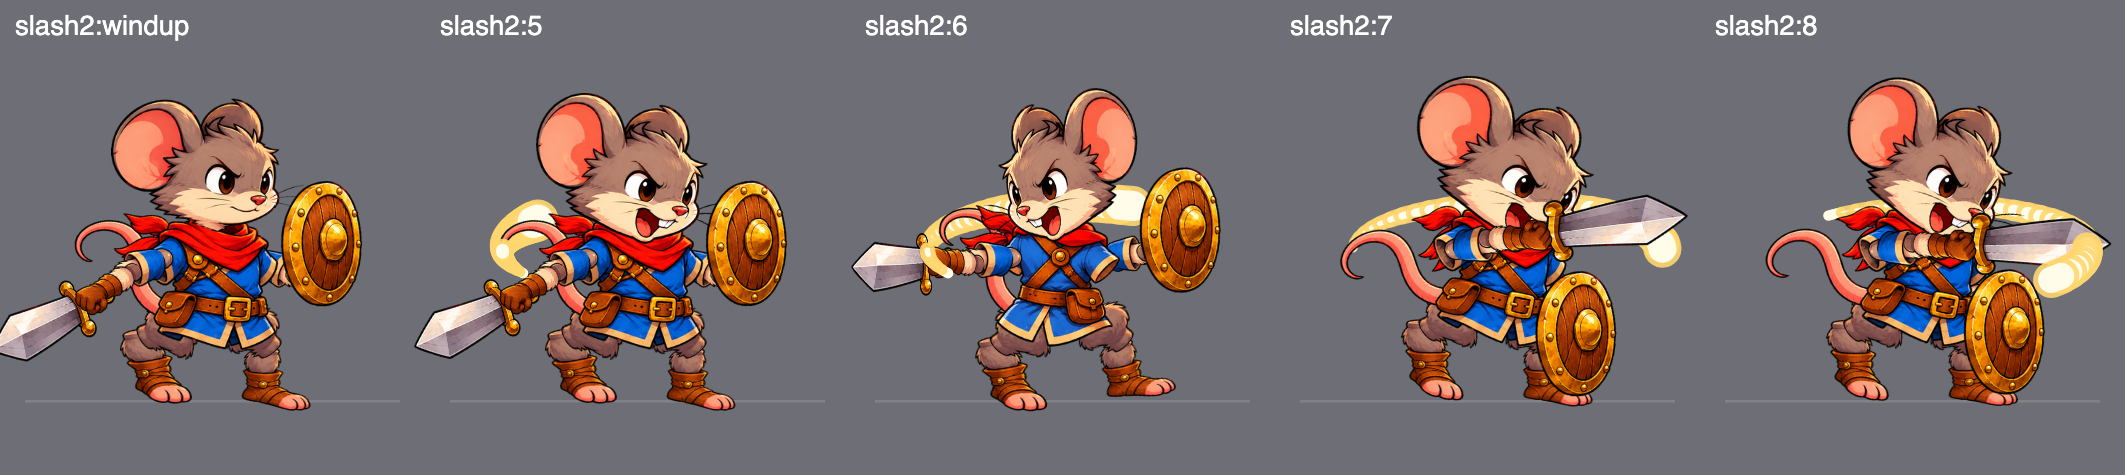
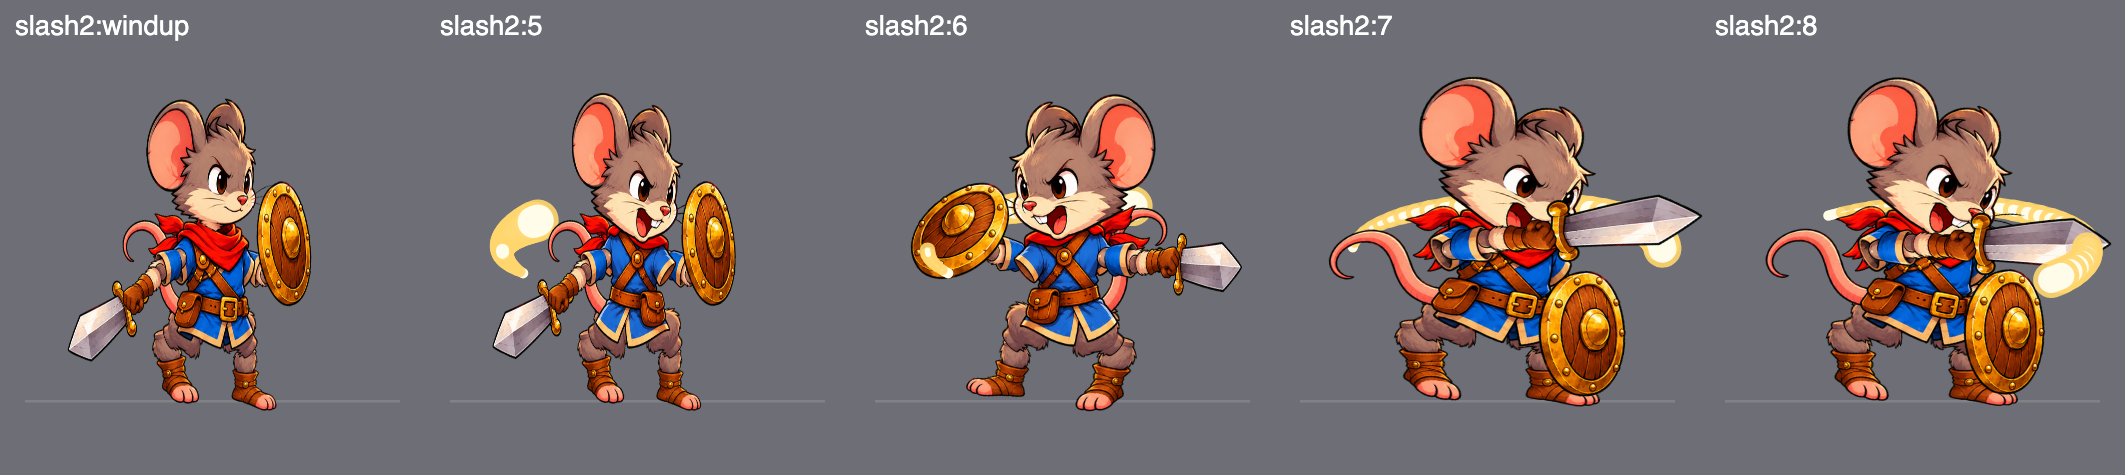
T008 round 2: spin reads as a turn (body narrows, then mirrors for 2 frames); build label v2

diff --git a/src/data/rigs/mouse-fighter-poses.js b/src/data/rigs/mouse-fighter-poses.js
@@ -12,7 +12,7 @@ export default {
     bodyLean: 0.3,      // share of the move's standee lean (move.pose.rot) the rig keeps; joints do the rest
     swapBack: 0.5,      // fraction of a move's recovery that keeps the strike's swaps (shout face) before the normal drawings return
     castHold: 1,        // s the C test pose (`cast`) plays before he drops back to normal
-    throughSwap: [0.25, 0.75],   // a `through` pose's swaps show while the swing is this share of the way to the strike
+    throughSwap: [0, 0.75],      // a `through` pose's swaps show while the swing is this share of the way to the strike
   },
   stance: {
     torso: 4, head: -4,
@@ -96,12 +96,12 @@ export default {
       strike: { swap: { head: 'head-shout' }, torso: 8, head: 4, dx: 2, 'arm-front-upper': -78, 'arm-front-lower': 10, sword: 90, 'arm-back-upper': -10, 'arm-back-lower': -30,
         'leg-back-upper': -52, 'leg-back-lower': 38, 'leg-front-upper': 50, 'leg-front-lower': -54, 'scarf-tail': -20, tail: -15 },
     },
-    slash2: {   // spin slash: he turns his back mid-swing and the blade comes round flat at shoulder height.
-      // windup: blade drawn back low across the body. through (one drawing, mid-spin): back to us, arm
-      // and blade flat out behind. strike: front again, blade flat out in front.
-      windup: { torso: 2, head: -2, dy: 3, 'arm-front-upper': 70, 'arm-front-lower': -20, sword: 104, 'sword.sx': 0.75,
+    slash2: {   // spin slash: he twists away (body narrowed = turning), faces the other way for the first two
+      // active frames (whole body mirrored, back torso, blade trailing on the enemy's side), then comes round
+      // to the front with the blade flat out at shoulder height. 'sx' = whole-body width (-1 mirrored).
+      windup: { sx: 0.65, torso: 2, head: -2, dy: 3, 'arm-front-upper': 70, 'arm-front-lower': -20, sword: 104, 'sword.sx': 0.75,
         'arm-back-upper': -70, 'leg-back-upper': -46, 'leg-back-lower': 44, 'leg-front-upper': 64, 'leg-front-lower': -70, tail: 15, 'scarf-tail': 15 },
-      through: { swap: { torso: 'torso-back', head: 'head-shout' }, torso: 0, head: -4, 'head.sx': -1, dy: 2,
+      through: { swap: { torso: 'torso-back', head: 'head-shout' }, sx: -1, torso: 0, head: -4, dy: 2,
         'arm-front-upper': 90, 'arm-front-lower': 0, sword: 90, 'sword.sx': 0.55, 'arm-front-lower.sy': 0.8, 'arm-back-upper': -100, 'arm-back-lower': -20, tail: 30, 'scarf-tail': 30 },
       strike: { swap: { head: 'head-shout' }, torso: 10, head: 2, dx: 2, 'arm-front-upper': -102, 'arm-front-lower': 0, sword: 92,
         'arm-back-upper': -15, 'arm-back-lower': -40, 'leg-back-upper': -52, 'leg-back-lower': 38, 'leg-front-upper': 50, 'leg-front-lower': -54,

diff --git a/src/render/rig-pose.js b/src/render/rig-pose.js
@@ -1,6 +1,6 @@
 // Rig poses: picks the pose for a fighter's state/move, evaluates waves and move phases,
 // and eases from the last drawn pose into a new one. Pure (no DOM), so tests can run it.
-// Channels: '<part>' angle, 'dx'/'dy' root offset, and per part '<part>.sx' / '<part>.sy'
+// Channels: '<part>' angle, 'dx'/'dy' root offset, 'sx' whole-body width (-1 = mirrored, e.g. mid-spin), and per part '<part>.sx' / '<part>.sy'
 // (stretch across/along the bone, 1 = as drawn, negative flips) and '<part>.order' (draw order).
 // Part swaps: a pose's `swap: { <part>: '<swap name>' }` picks one of the part's `swaps` images.
 // Swaps don't blend: they switch the moment the pose (or move phase) that names them starts.
@@ -14,7 +14,7 @@ const easeOutBack = (t, s) => 1 + (s + 1) * (t - 1) ** 3 + s * (t - 1) ** 2;
 
 // Every channel a pose may use, with its value when a pose leaves it out.
 export function channelsOf(rig) {
-  const out = { dx: 0, dy: 0 };
+  const out = { dx: 0, dy: 0, sx: 1 };   // sx: whole-body width (1 = as drawn, -1 = mirrored; through 0 reads as a turn)
   for (const [name, p] of Object.entries(rig.parts)) {
     out[name] = 0; out[`${name}.sx`] = 1; out[`${name}.sy`] = 1; out[`${name}.order`] = p.order;
   }

diff --git a/src/render/rig.js b/src/render/rig.js
@@ -32,7 +32,7 @@ export function layoutRig(rig, joints, swap = {}) {
     if (frames[name]) return frames[name];
     const p = rig.parts[name];
     let m;
-    if (!p.parent) m = mul(mul(tr(joints.dx ?? 0, (joints.dy ?? 0) - rig.rootY), sc(rig.scale)), rot(joints[name] ?? 0));
+    if (!p.parent) m = mul(mul(tr(joints.dx ?? 0, (joints.dy ?? 0) - rig.rootY), sc(rig.scale * (joints.sx ?? 1), rig.scale)), rot(joints[name] ?? 0));
     else {
       const q = rig.parts[p.parent];
       const [ax, ay] = apply(shape(p.parent, q, joints), p.attach[0] - q.pivot[0], p.attach[1] - q.pivot[1]);

diff --git a/src/config.js b/src/config.js
@@ -3,4 +3,4 @@ export const VIEW = { w: 960, h: 540 };   // internal resolution; CSS scales to 
 export const FPS = 60;                    // sim runs at a fixed 60 steps/sec; all timings are in frames
 export const START_STAGE = 'harbor-market';
 export const START_HERO = 'mouse-fighter';
-export const BUILD = 't008 spin slash';   // shown small under the KO counter so testers know which version is running
+export const BUILD = 't008 spin slash v2';   // shown small under the KO counter so testers know which version is running

diff --git a/docs/MODULES.md b/docs/MODULES.md
@@ -37,7 +37,7 @@ One line per file: what it does and what it exports. **Read this instead of the 
 | `src/render/renderer.js` | Draw order: backdrop, stage, shadows, far half of wrap swooshes, fighters by depth (rig if `art.rig` and `opts.rig`, else standee), effects, HUD, debug | `createRenderer` |
 | `src/render/standee.js` | Fighter drawn as a standee: lean/squash/hop per state (block = braced forward lean, jolts back in blockstun; `BLOCK_LEAN` is undone by the rig) and move phase, flips, flashes, tints | `drawStandee drawShadow poseOf` |
 | `src/render/rig.js` | Fighter drawn as a cutout rig: part hierarchy -> buffer, then placed like a standee (lean, flip, flash, tints). Draws swap images (`layoutRig(rig, joints, swap)` returns each part's `img`); optional held pose (`cast`) | `drawRig layoutRig` |
-| `src/render/rig-pose.js` | Rig pose per state/move phase (waves, windup/through/strike, easing, overshoot) and blending from the last drawn pose; part swaps per pose/phase (switch at once, strike swaps last `timing.swapBack` of recovery); optional pose override. A `through` pose's swaps show only mid-swing (`timing.throughSwap`; slash2's one back-view drawing). Channels: joint angles, dx/dy, per-part `.sx/.sy` stretch and `.order`. Pure | `targetPose rigJoints channelsOf jointsOfRig` |
+| `src/render/rig-pose.js` | Rig pose per state/move phase (waves, windup/through/strike, easing, overshoot) and blending from the last drawn pose; part swaps per pose/phase (switch at once, strike swaps last `timing.swapBack` of recovery); optional pose override. A `through` pose's swaps show only mid-swing (`timing.throughSwap`; slash2's one back-view drawing). Channels: joint angles, dx/dy, `sx` whole-body width (-1 mirrored; slash2's mid-spin), per-part `.sx/.sy` stretch and `.order`. Pure | `targetPose rigJoints channelsOf jointsOfRig` |
 | `src/render/effects.js` | Slash swooshes (optionally `flat` for level sweeps; `wrap` goes round the body, far side drawn behind via `drawBack`), sparks, rings, damage numbers, dust; block clang (bright sparks toward the attacker, shield-side flash, double ring, then a star glint on the shield rim) (from events) | `createEffects drawSlash` |
 | `src/render/view-pose.js` | View-only test pose on the hero (C = `cast`): plays once for `timing.castHold` s, only from idle, dropped on leaving idle. Pure | `stepViewPose` |
 | `src/render/juice.js` | Screen shake + hit-stop counters (from events; `block` uses the blocker's `block.hitstop/shake`) | `createJuice` |

diff --git a/docs/STATUS.md b/docs/STATUS.md
@@ -50,6 +50,8 @@
 2026-10-15 code: T008 on branch `t008-spin-slash`: slash2 is a spin slash (windup low back; one back-view torso frame mid-active with the head looking back along the flat blade; flat cut in front), wrap-around swoosh with its far half behind him. Sim/timing/hitbox unchanged. C now plays the cast pose once (1 s, idle only).
 2026-10-15 code: 8/8 tests (new tests/view-pose.test.mjs, rig test slash2 checks). Screens in docs/screens/T008/. Human check open: does slash2 read as a flat spinning cut?
 2026-10-15 code: user request (outside T008, for the lead): small "build: t008 spin slash" label under the KO counter (`BUILD` in src/config.js, drawn by hud.js) so testers can tell versions apart. Lead: keep, change per task, or drop.
+2026-10-15 code: T008 round 2 (user: "i dont see his back at all"): the torso-back drawing barely differs from the front at game size, and it showed for 1 frame. Now the windup narrows the body (twisting away) and the first 2 active frames mirror the whole body (new render-only rig channel `sx`, default 1) with the back torso; a hit-stop holds that frame. Build label "t008 spin slash v2".
+2026-10-15 code: art that would sell the spin: a true back view (back of head with ears, tunic/scarf from behind) for A005. Variant sheet docs/screens/T008/4-*.png (top row picked).
 2026-10-15 lead: merged T007 (shield block; sim change limited to fighters with a block config; user approved the readable pose, polish parked).
 2026-10-15 lead: A003 props approved. Block pose polish deferred (mechanic first, pose must be readable).
 2026-10-15 lead: study "What makes our game distinct?" (hooks); private lore appendix to the user only.
